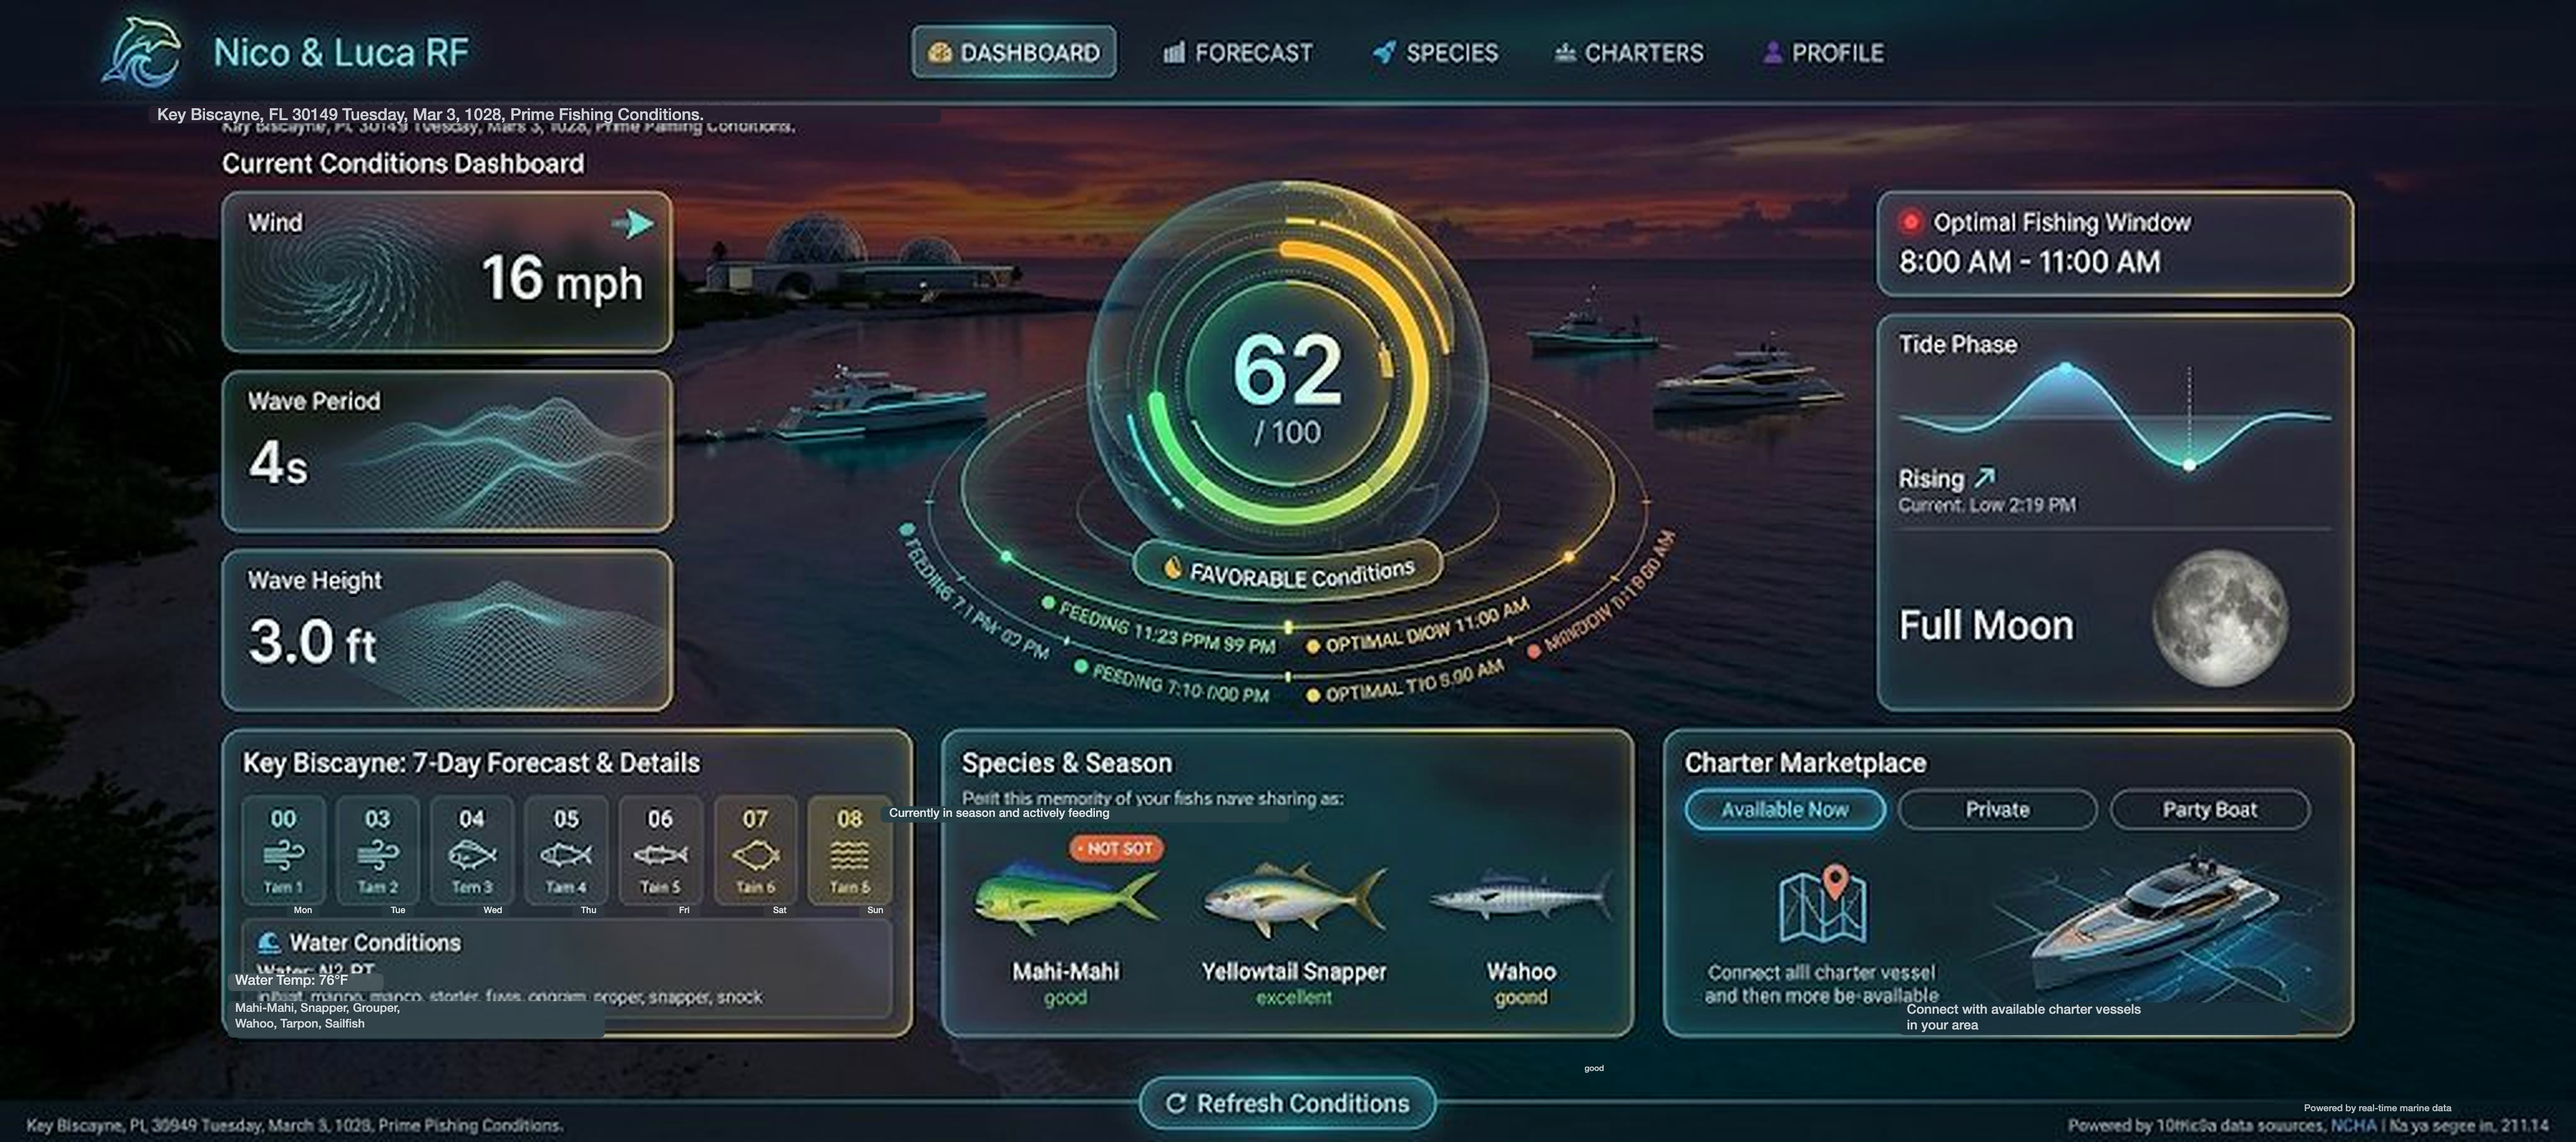
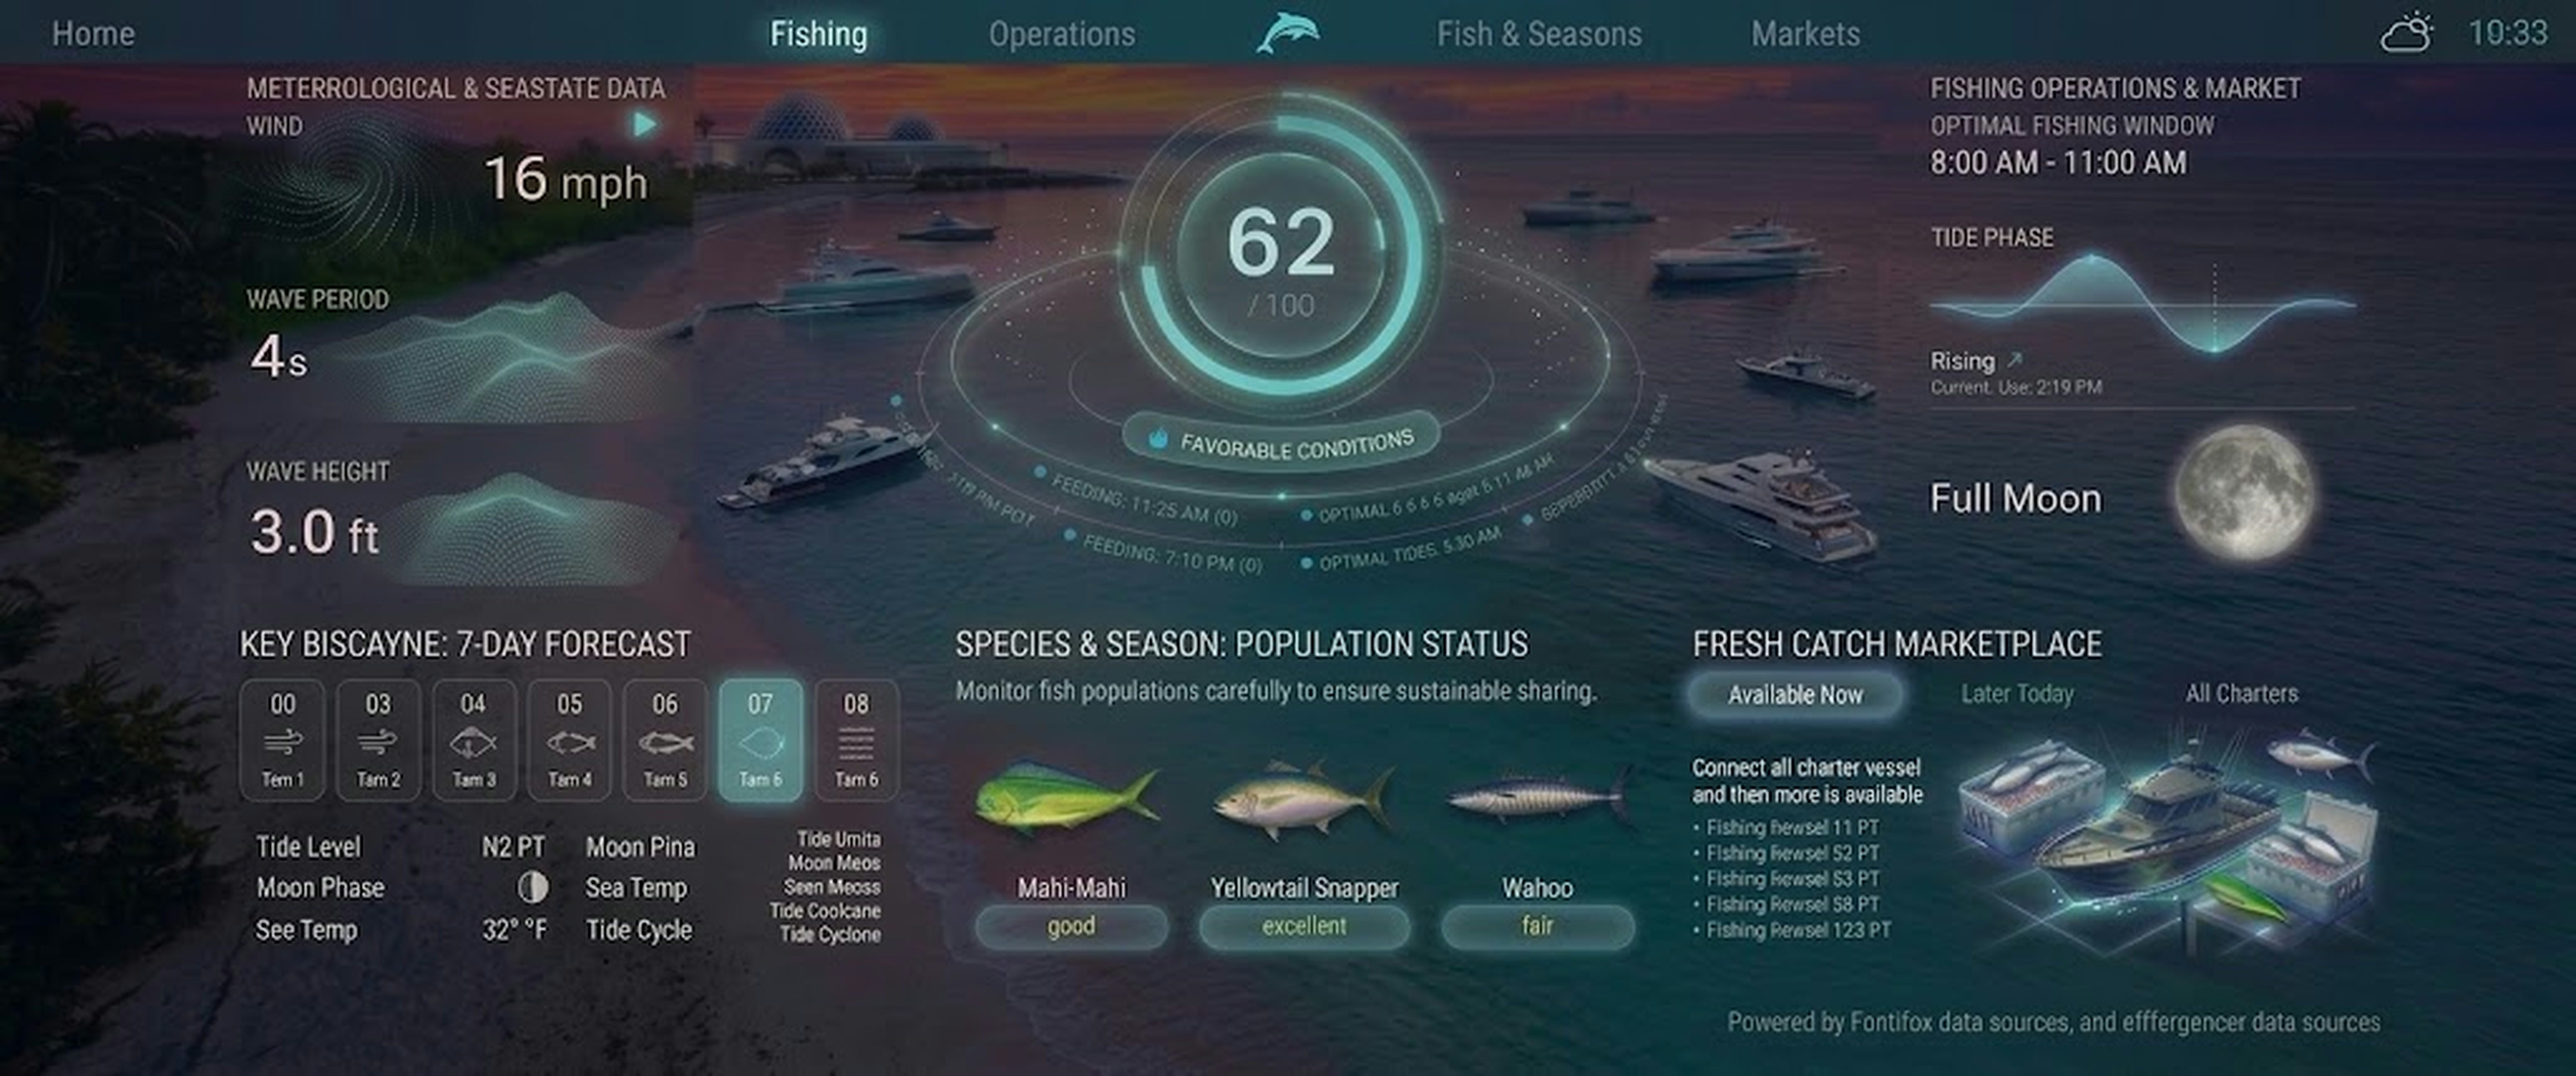
Match dashboard to Dash 2.0 reference

diff --git a/home.js b/home.js
@@ -3,6 +3,22 @@
     dashboard: document.getElementById("dashboard-view"),
     forecast: document.getElementById("forecast-view")
   };
+  const shell = document.querySelector(".exact-shell");
+
+  function applyViewGeometry(view) {
+    if (!shell || !views.dashboard) {
+      return;
+    }
+
+    if (view === "dashboard") {
+      shell.style.width = "min(100vw, calc(100dvh * 1024 / 428))";
+      views.dashboard.style.aspectRatio = "1024 / 428";
+      return;
+    }
+
+    shell.style.width = "min(100vw, calc(100dvh * 1024 / 454))";
+    views.dashboard.style.aspectRatio = "1024 / 454";
+  }
 
   function hydrateViewAssets(view) {
     const section = views[view];
@@ -25,6 +41,7 @@
 
   function setActiveView(view) {
     hydrateViewAssets(view);
+    applyViewGeometry(view);
 
     Object.keys(views).forEach((key) => {
       views[key].classList.toggle("is-active", key === view);
